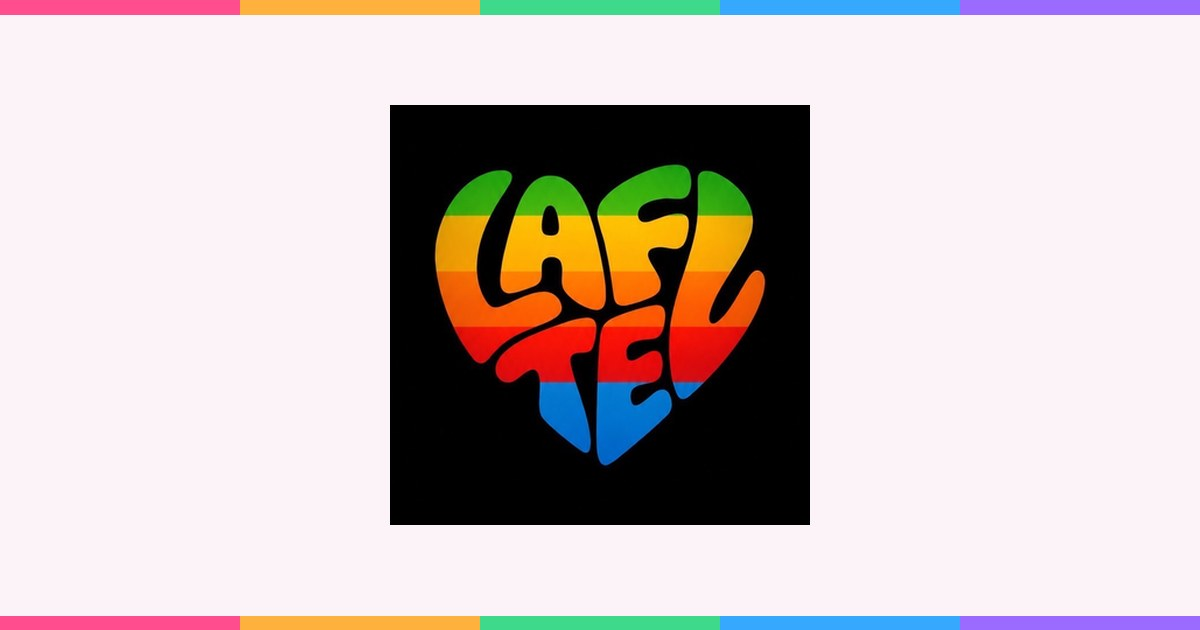
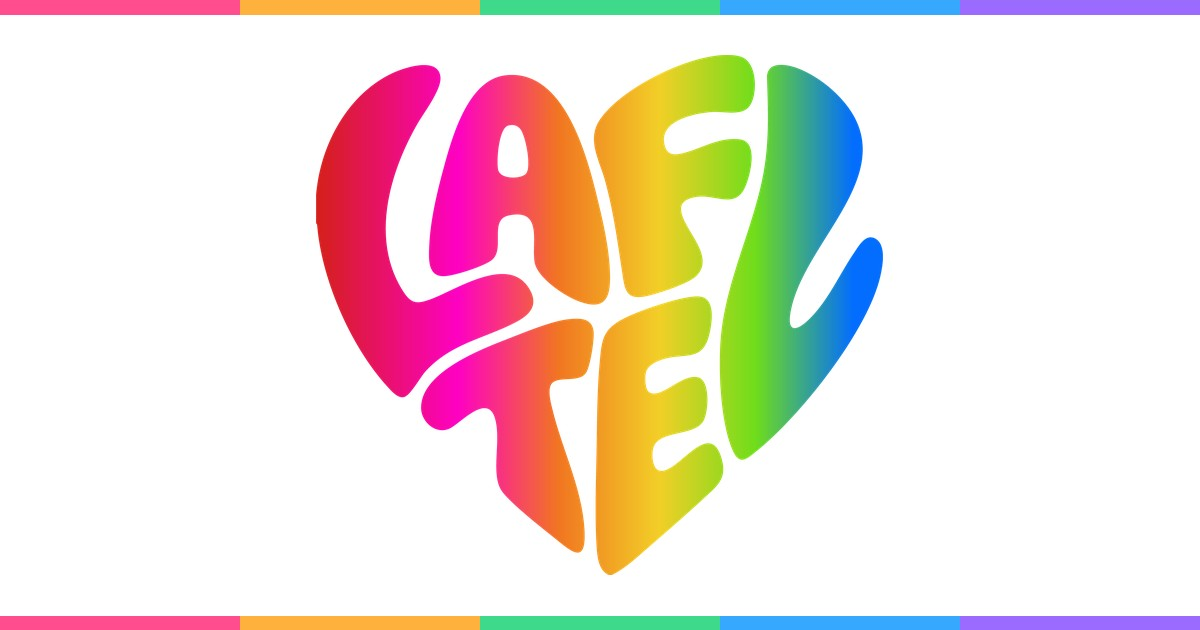
site-update: 透過ロゴ・折り返し整備

Changed region(s): [[0.2467, 0.0603, 0.74, 0.9349]]

diff --git a/index.html b/index.html
@@ -60,7 +60,7 @@
 
   .eyebrow{font-family:var(--dp);font-weight:700;font-size:12px;letter-spacing:.26em;color:var(--ink-soft);text-transform:uppercase}
 
-  .hero{position:relative;text-align:center;padding:120px 28px 96px;min-height:82vh;display:flex;
+  .hero{position:relative;text-align:center;padding:96px 20px 80px;min-height:82vh;display:flex;
     flex-direction:column;align-items:center;justify-content:center;overflow:hidden}
   .hero-motif{position:absolute;pointer-events:none;opacity:.9}
   .hero-eyebrow{margin-bottom:34px}
@@ -163,14 +163,13 @@
   .foot-brand{display:inline-flex;align-items:center;gap:10px;margin-bottom:14px}
   .foot small{display:block;font-family:var(--dp);font-weight:500;font-size:11px;letter-spacing:.1em;color:var(--ink-faint);line-height:2}
 
-  .logo{display:inline-block;background-image:url("logo.webp");
-    background-size:contain;background-position:center;background-repeat:no-repeat;border-radius:26%;vertical-align:middle}
-  .nav-brand .logo{box-shadow:0 6px 16px rgba(21,18,30,.26)}
-  .hero-logo{margin:4px auto 0}
-  .logo-hero{width:min(208px,52vw);height:min(208px,52vw);border-radius:27%;
-    box-shadow:0 26px 52px rgba(21,18,30,.32);animation:bob 6s ease-in-out infinite}
+  .logo{display:inline-block;background-image:url("logo-sm.webp");aspect-ratio:1983/1818;
+    background-size:contain;background-position:center;background-repeat:no-repeat;vertical-align:middle}
+  .nav-brand .logo{filter:drop-shadow(0 4px 8px rgba(255,61,133,.22))}
+  .hero-logo{margin:0 auto;max-width:100%}
+  .logo-hero{background-image:url("logo.webp");width:clamp(270px,72vw,620px);filter:drop-shadow(0 26px 40px rgba(142,91,242,.28));animation:bob 6s ease-in-out infinite}
   @keyframes bob{0%,100%{transform:translateY(0)}50%{transform:translateY(-10px)}}
-  .logo-closing{width:108px;height:108px;border-radius:27%;margin:0 auto 4px;box-shadow:0 18px 40px rgba(0,0,0,.42)}
+  .logo-closing{background-image:url("logo.webp");margin:0 auto 4px;filter:drop-shadow(0 12px 30px rgba(255,255,255,.12))}
   .reveal{opacity:0;transform:translateY(22px);transition:opacity .9s ease,transform .9s cubic-bezier(.2,.8,.2,1)}
   .reveal.in{opacity:1;transform:none}
   .star-spin.idle{animation:spin 120s linear infinite}
@@ -206,9 +205,9 @@
     animation:wobble var(--d,6s) ease-in-out infinite;animation-delay:var(--dl,0s)}
   .b1{left:9%;top:20%;--s:70px;--d:6.4s}.b2{right:11%;top:16%;--s:58px;--d:5.6s;--dl:-1.2s}
   .b3{left:15%;bottom:17%;--s:54px;--d:7s;--dl:-2.4s}.b4{right:14%;bottom:21%;--s:76px;--d:6.8s;--dl:-.8s}
-  .b5{left:50%;top:9%;--s:46px;--d:5.2s;--dl:-3s}
+  .b5{left:24%;top:12%;--s:46px;--d:5.2s;--dl:-3s}
   @keyframes wobble{0%,100%{transform:translateY(0) rotate(-6deg) scale(1)}50%{transform:translateY(-22px) rotate(8deg) scale(1.08)}}
-  @media(max-width:700px){.b1{--s:46px;left:4%}.b2{--s:40px;right:5%}.b3{--s:38px;left:6%}.b4{--s:48px;right:5%}.b5{display:none}}
+  @media(max-width:700px){.b3{display:none}.b4{bottom:auto;top:31%}.b1{--s:46px;left:4%}.b2{--s:40px;right:5%}.b3{--s:38px;left:6%}.b4{--s:48px;right:5%}.b5{display:none}}
   .hero>*:not(.bubbles){position:relative;z-index:1}
 
   .ribbon-wrap{overflow:hidden;padding:26px 0}
@@ -294,7 +293,7 @@
 
   .manifesto .mf-line,.manifesto .mf-pin{--base:var(--ink);color:color-mix(in srgb,var(--base) calc(22% + var(--lit,1)*78%),transparent)}
   .manifesto .mf-line.soft{--base:var(--ink-soft)}
-  .logo-closing{width:clamp(150px,30vw,210px);height:clamp(150px,30vw,210px);animation:bob 6s ease-in-out infinite;transition:transform .5s var(--spring)}
+  .logo-closing{width:clamp(220px,52vw,380px);animation:bob 6s ease-in-out infinite;transition:transform .5s var(--spring)}
   .logo-closing:hover{animation-play-state:paused;transform:rotate(-8deg) scale(1.08)}
   @media (prefers-reduced-motion:reduce){.logo-closing{animation:none}.nav-cta,.ev,.logo-closing{transition:none}.ev-panel{animation:none}}
 
@@ -303,6 +302,11 @@
   h1,h2,h3,.hero-jp,.hero-sub,.mf-line,.mf-pin,.sec-lead,.vision-foot,.mv-card p,.feature-desc,.feature-tag,.closing-jp,.vw .g,.ev-gloss,.ev-note,.ev-empty,.ev-item p,.lede,.after-msg,.tagline-jp,.ce-gloss{text-wrap:balance}
   .nb{display:inline-block;max-width:100%}
   .phil{text-wrap:pretty}
+
+  .btn,.btn-ghost,.nav-cta{text-align:center;text-wrap:balance}
+  .arrow{white-space:nowrap}
+  .ev-count,.ev-tag,.chip,.chip-c,.fact,.pill-tag{white-space:nowrap}
+  @media(max-width:400px){.btn{padding:13px 22px;font-size:14px}.btn-ghost{padding:12px 20px}.hero-cta{gap:10px}}
 </style>
 </head>
 <body>
@@ -317,7 +321,7 @@
 
 <nav class="nav">
   <div class="nav-brand">
-    <span class="logo" role="img" aria-label="LAFTEL." style="width:46px;height:46px"></span>
+    <span class="logo" role="img" aria-label="LAFTEL." style="width:52px"></span>
   </div>
   <span class="nav-studio">LAFTEL. // Life Design Studio</span>
   <a class="nav-cta" href="https://www.instagram.com/keita.shinmen_137/" target="_blank" rel="noopener">のぞいてみる</a>
@@ -330,7 +334,7 @@
   <h1 class="hero-headline rb reveal"><span class="nb">Life is</span> <span class="nb">Entertainment.</span></h1>
   <p class="hero-jp reveal">大切な人と、人生をもっと面白く。</p>
   <p class="hero-sub reveal">正解を探すのではなく、自らの手で、唯一無二の物語を紡ぐ。</p>
-  <div class="hero-cta reveal"><a class="btn btn-pop" href="https://www.instagram.com/keita.shinmen_137/" target="_blank" rel="noopener">LAFTEL. をのぞいてみる <span class="arrow">→</span></a><a class="btn-ghost" href="#events">イベントを見る</a></div>
+  <div class="hero-cta reveal"><a class="btn btn-pop" href="https://www.instagram.com/keita.shinmen_137/" target="_blank" rel="noopener">LAFTEL. をのぞいてみる&nbsp;<span class="arrow">→</span></a><a class="btn-ghost" href="#events">イベントを見る</a></div>
   <a class="scrollcue reveal" href="#manifesto" aria-label="下へスクロール">
     <span>SCROLL</span><span class="line"></span>
   </a>
@@ -360,7 +364,7 @@
 <section class="sec" id="vision">
   <div class="wrap">
     <div class="sec-label reveal"><span class="bar"></span><span class="eyebrow">Mission &amp; Vision</span><span class="bar"></span></div>
-    <h2 class="sec-title reveal">レールを、降りる。<span class="rb">主役</span>を、生きる。</h2>
+    <h2 class="sec-title reveal"><span class="nb">レールを、降りる。</span><span class="nb"><span class="rb">主役</span>を、生きる。</span></h2>
     <div class="mv">
       <div class="mv-card mv-mission reveal">
         <div class="mv-k">MISSION ／ 使命</div>
@@ -382,7 +386,7 @@
 <section class="sec" id="philosophy">
   <div class="wrap">
     <div class="sec-label reveal"><span class="bar"></span><span class="eyebrow">Five Circle Philosophy</span><span class="bar"></span></div>
-    <h2 class="sec-title reveal"><span class="rb">五輪哲学</span>で、人生の基準を引き上げる。</h2>
+    <h2 class="sec-title reveal"><span class="nb"><span class="rb">五輪哲学</span>で、</span><span class="nb">人生の基準を</span><span class="nb">引き上げる。</span></h2>
     <p class="sec-lead phil reveal" style="margin-bottom:18px"><span class="nb">ライフデザインスタジオ</span><span class="nb">『&nbsp;LAFTEL.&nbsp;』が掲げるのは、</span><span class="nb">世界中のリーダーが</span><span class="nb">バイブルとする</span><span class="nb">伝説のサムライ・宮本武蔵</span><span class="nb">（本名：新免武蔵）の</span><span class="nb">『📜五輪書📜』に</span><span class="nb">流れる思想🧠</span><br><br><span class="nb">その名を受け継ぐ</span><span class="nb">代表・新免慧大が、</span><span class="nb">4,000社を超える</span><span class="nb">神社仏閣への巡礼⛩と</span><span class="nb">厳しい修行の日々⚔を経て、</span><span class="nb">大自然の理から導き出した</span><span class="nb">【&nbsp;\\\\\ 五輪哲学 /////&nbsp;】という</span><span class="nb">人生の羅針盤。🧭🙏🏽</span></p>
     <p class="sec-lead reveal">地・水・火・風・空。5つのライフスタイル・フィロソフィーと、30の指標。Life Design Portfolio で、5つの輪郭をセルフチューニングしていく。</p>
     <div class="circles">
@@ -459,7 +463,7 @@
 <section class="sec" id="events">
   <div class="wrap">
     <div class="sec-label reveal"><span class="bar"></span><span class="eyebrow">Five Elements Events</span><span class="bar"></span></div>
-    <h2 class="sec-title reveal">地・水・火・風・空の、<span class="rb">イベント</span>。</h2>
+    <h2 class="sec-title reveal"><span class="nb">地・水・火・風・空の、</span><span class="nb"><span class="rb">イベント</span>。</span></h2>
     <p class="sec-lead reveal">五つの元素に、五つの遊び場。その道を極めた“本物”と、人生をもっと面白がろう。</p>
     <div class="ev-free reveal"><span class="ev-free-badge">参加 無料</span></div>
     <!-- 参加費は無料。実費はイベントごとのため掲載しない。開催日・登壇者は確定後に追記 -->
@@ -502,7 +506,7 @@
     </div>
     <div class="ev-panel" id="evPanel" role="region" aria-live="polite" hidden></div>
     <div class="ev-cta reveal">
-      <a class="btn btn-pop" href="https://www.instagram.com/keita.shinmen_137/" target="_blank" rel="noopener">LAFTEL. をのぞいてみる <span class="arrow">→</span></a>
+      <a class="btn btn-pop" href="https://www.instagram.com/keita.shinmen_137/" target="_blank" rel="noopener">LAFTEL. をのぞいてみる&nbsp;<span class="arrow">→</span></a>
     </div>
     <p class="ev-note reveal">開催日・登壇者が決まり次第、Instagram でお知らせします。</p>
   </div>
@@ -528,7 +532,7 @@
           <span class="fact">5 分野</span><span class="fact">30 指標</span><span class="fact">約 5 分</span>
         </div>
         <div class="feature-cta">
-          <a class="btn" href="./portfolio.html">診断をはじめる <span class="arrow">→</span></a>
+          <a class="btn" href="./portfolio.html">診断をはじめる&nbsp;<span class="arrow">→</span></a>
           <a class="btn-ghost" href="#philosophy">五輪哲学を見る</a>
         </div>
       </div>
@@ -539,17 +543,17 @@
 <section class="closing">
   <span class="logo logo-closing reveal" role="img" aria-label="LAFTEL."></span>
   <p class="closing-jp reveal">
-    人生は一度きり。大切な人と、<br>
-    もっと<span class="rb">自由</span>に。もっと<span class="rb">大胆</span>に。もっと<span class="rb">面白く</span>。
+    <span class="nb">人生は一度きり。</span><span class="nb">大切な人と、</span><br>
+    <span class="nb">もっと<span class="rb">自由</span>に。</span><span class="nb">もっと<span class="rb">大胆</span>に。</span><span class="nb">もっと<span class="rb">面白く</span>。</span>
   </p>
   <h2 class="closing-en rb reveal">Life is Entertainment.</h2>
   <div class="closing-base reveal">LAFTEL. // Life Design Studio</div>
-  <div class="closing-cta reveal"><a class="btn btn-pop" href="https://www.instagram.com/keita.shinmen_137/" target="_blank" rel="noopener">LAFTEL. をのぞいてみる <span class="arrow">→</span></a></div>
+  <div class="closing-cta reveal"><a class="btn btn-pop" href="https://www.instagram.com/keita.shinmen_137/" target="_blank" rel="noopener">LAFTEL. をのぞいてみる&nbsp;<span class="arrow">→</span></a></div>
 </section>
 
 <footer class="foot">
   <div class="foot-brand">
-    <span class="logo" role="img" aria-label="LAFTEL." style="width:42px;height:42px"></span>
+    <span class="logo" role="img" aria-label="LAFTEL." style="width:48px"></span>
   </div>
   <small>Based in Hawaii</small>
   <small>Life Design Studio　·　天下泰平 ・ 萬民豐樂 ・ 人類兄弟</small>
@@ -635,6 +639,24 @@ if(!reduce){
   addEventListener('scroll',()=>{if(!tick){tick=true;requestAnimationFrame(upd);}},{passive:true});upd();
 }
 
+
+/* 日本語の折り返し：auto-phrase 非対応のブラウザだけ、句読点の位置でだけ改行できるようにする */
+function phrase(root){
+  if(window.CSS&&CSS.supports&&CSS.supports('word-break','auto-phrase'))return;
+  const sel='.mf-line,.mf-pin,.hero-jp,.hero-sub,.sec-lead:not(.phil),.mv-card p,.vw .g,.vision-foot,.feature-desc,.ev-gloss,.ev-note,.after-msg,.push-msg,.first-msg';
+  (root||document).querySelectorAll(sel).forEach(el=>{
+    el.style.wordBreak='keep-all';el.style.overflowWrap='anywhere';
+    const ws=document.createTreeWalker(el,NodeFilter.SHOW_TEXT),ns=[];let n;while(n=ws.nextNode())ns.push(n);
+    ns.forEach(tn=>{
+      if(!/[、。，．！？」』）】]./.test(tn.textContent))return;
+      const parts=tn.textContent.split(/(?<=[、。，．！？」』）】])(?=[^、。，．！？」』）】\s])/);
+      const fr=document.createDocumentFragment();
+      parts.forEach((p,i)=>{if(i)fr.append(document.createElement('wbr'));fr.append(p);});
+      tn.replaceWith(fr);
+    });
+  });
+}
+phrase();
 /* events: 元素カードを押すと詳細（events.js の内容）を開く */
 (function(){
   const D=window.LAFTEL_EVENTS||{},panel=document.getElementById('evPanel'),cards=[...document.querySelectorAll('.ev')];
@@ -650,7 +672,7 @@ if(!reduce){
       (i.summary?'<p>'+esc(i.summary)+'</p>':'')+
       ((i.date||i.place||i.specialist)?'<p>'+[i.date,i.place,i.specialist].filter(Boolean).map(esc).join(' ・ ')+'</p>':'')+
       (i.contact?'<a href="'+esc(safe(i.contact.href))+'">'+esc(i.contact.label)+' →</a>':'')+'</div>').join('')
-      :'<p class="ev-empty">'+esc(k)+'のイベントは、準備中。決まり次第、Instagram でお知らせします。<br><a class="btn" href="'+KEITA_URL+'" target="_blank" rel="noopener">Instagram でチェック <span class="arrow">→</span></a></p>';
+      :'<p class="ev-empty">'+esc(k)+'のイベントは、準備中。決まり次第、Instagram でお知らせします。<br><a class="btn" href="'+KEITA_URL+'" target="_blank" rel="noopener">Instagram でチェック&nbsp;<span class="arrow">→</span></a></p>';
     panel.style.setProperty('--c',getComputedStyle(card).getPropertyValue('--c'));
     panel.innerHTML='<div class="ev-panel-head"><span class="ev-panel-k">'+esc(k)+'</span><div><div class="ev-panel-t">'+esc(th)+'</div><div class="ev-panel-g">'+esc(g)+'</div></div><button class="ev-close" type="button">閉じる</button></div>'+body;
     panel.hidden=false;

diff --git a/portfolio.html b/portfolio.html
@@ -40,9 +40,9 @@
   .topbar{height:5px;background:var(--rainbow)}
   .pad{padding:34px 32px 34px}
 
-  .logo{display:inline-block;background-image:url("logo.webp");
-    background-size:contain;background-position:center;background-repeat:no-repeat;border-radius:28%;vertical-align:middle;
-    box-shadow:0 5px 14px rgba(21,18,30,.24)}
+  .logo{display:inline-block;background-image:url("logo-sm.webp");aspect-ratio:1983/1818;
+    background-size:contain;background-position:center;background-repeat:no-repeat;vertical-align:middle;
+    filter:drop-shadow(0 3px 6px rgba(255,61,133,.2))}
 
   /* brand */
   .brand{display:flex;align-items:center;gap:10px;justify-content:center}
@@ -117,7 +117,7 @@
   .pill.on{color:#fff;border-color:transparent;transform:translateY(-1px)}
 
   .legend{text-align:center;color:var(--faint);font-size:11.5px;margin-top:16px}
-  .nav{display:flex;justify-content:space-between;align-items:center;margin-top:22px}
+  .nav{display:flex;justify-content:space-between;align-items:center;margin-top:22px;flex-wrap:wrap;gap:10px}
 
   /* result */
   .rank{text-align:center;margin-top:4px}
@@ -176,7 +176,7 @@
   @media (prefers-reduced-motion:reduce){*{animation:none !important;transition:none !important}}
   @media print{body{background:#fff}.app{box-shadow:none}.nav,.center{display:none !important}}
   .after-cta{text-align:center;margin:30px 0 6px;padding:26px 20px;border-radius:24px;background:linear-gradient(135deg,#FFF1F7,#EEF6FF)}
-  .after-cta .btn{display:inline-block;text-decoration:none;margin-top:6px}
+  .after-cta .btn{display:inline-block;text-decoration:none;margin-top:6px;white-space:normal}
   .after-lab{font-family:var(--dp);font-weight:800;font-size:18px}
   .after-msg{font-size:13.5px;color:var(--muted);margin:8px 0 14px;line-height:1.8;font-weight:500}
   @media print{.after-cta,#shareBtn{display:none !important}}
@@ -186,6 +186,9 @@
   h1,h2,h3,.hero-jp,.hero-sub,.mf-line,.mf-pin,.sec-lead,.vision-foot,.mv-card p,.feature-desc,.feature-tag,.closing-jp,.vw .g,.ev-gloss,.ev-note,.ev-empty,.ev-item p,.lede,.after-msg,.tagline-jp,.ce-gloss{text-wrap:balance}
   .nb{display:inline-block;max-width:100%}
   .phil{text-wrap:pretty}
+  .push-msg,.first-msg,.first-lab,.rank-jp,.cat-gloss,.cat-theme{text-wrap:balance}
+  .btn{white-space:nowrap}
+  @media(max-width:400px){.btn{padding:13px 20px;font-size:14px}}
 </style>
 </head>
 <body>
@@ -196,7 +199,7 @@
     <!-- ============ COVER ============ -->
     <section id="cover" class="fade">
       <div class="brand">
-        <span class="logo" role="img" aria-label="LAFTEL." style="width:30px;height:30px"></span>
+        <span class="logo" role="img" aria-label="LAFTEL." style="width:36px"></span>
         <span class="lt">LAFTEL.</span><span class="college">Life Design Studio</span>
       </div>
       <div class="wordmark">Life Design Portfolio</div>
@@ -253,7 +256,7 @@
     <!-- ============ RESULT ============ -->
     <section id="result" class="hidden">
       <div class="brand" style="justify-content:center">
-        <span class="logo" role="img" aria-label="LAFTEL." style="width:24px;height:24px"></span>
+        <span class="logo" role="img" aria-label="LAFTEL." style="width:28px"></span>
         <span class="wm-sm" style="font-size:17px">Life Design Portfolio</span>
         <span class="college">LAFTEL. · Life Design Studio</span>
       </div>
@@ -289,7 +292,7 @@
       <div class="after-cta">
         <div class="after-lab">あなたの星、輝いてる？</div>
         <p class="after-msg">描いた星は、まだ途中。続きは LAFTEL. の仲間と、遊びながら。</p>
-        <a class="btn" href="https://www.instagram.com/__laftel.lifedesign__/" target="_blank" rel="noopener">公式 Instagram へ →</a>
+        <a class="btn" href="https://www.instagram.com/__laftel.lifedesign__/" target="_blank" rel="noopener">公式 Instagram へ&nbsp;→</a>
       </div>
 
       <div class="nav" style="justify-content:center;gap:14px">
@@ -480,6 +483,25 @@ function renderResult(){
   document.getElementById('firstMsg').textContent=NUDGE[W.key];
 }
 renderProg();
+
+/* 日本語の折り返し：auto-phrase 非対応のブラウザだけ、句読点の位置でだけ改行できるようにする */
+function phrase(root){
+  if(window.CSS&&CSS.supports&&CSS.supports('word-break','auto-phrase'))return;
+  const sel='.mf-line,.mf-pin,.hero-jp,.hero-sub,.sec-lead:not(.phil),.mv-card p,.vw .g,.vision-foot,.feature-desc,.ev-gloss,.ev-note,.after-msg,.push-msg,.first-msg';
+  (root||document).querySelectorAll(sel).forEach(el=>{
+    el.style.wordBreak='keep-all';el.style.overflowWrap='anywhere';
+    const ws=document.createTreeWalker(el,NodeFilter.SHOW_TEXT),ns=[];let n;while(n=ws.nextNode())ns.push(n);
+    ns.forEach(tn=>{
+      if(!/[、。，．！？」』）】]./.test(tn.textContent))return;
+      const parts=tn.textContent.split(/(?<=[、。，．！？」』）】])(?=[^、。，．！？」』）】\s])/);
+      const fr=document.createDocumentFragment();
+      parts.forEach((p,i)=>{if(i)fr.append(document.createElement('wbr'));fr.append(p);});
+      tn.replaceWith(fr);
+    });
+  });
+}
+phrase();
+{const _rr=renderResult;renderResult=function(){_rr.apply(this,arguments);phrase(document.getElementById('result'));};}
 document.getElementById('shareBtn').addEventListener('click',async()=>{
   const b=document.getElementById('shareBtn'),url=location.href.split('#')[0],
     text='私のLife Design Portfolioは '+state.scores.flat().reduce((a,b)=>a+(b||0),0)+' / 150点。あなたの星も見てみよう。';
